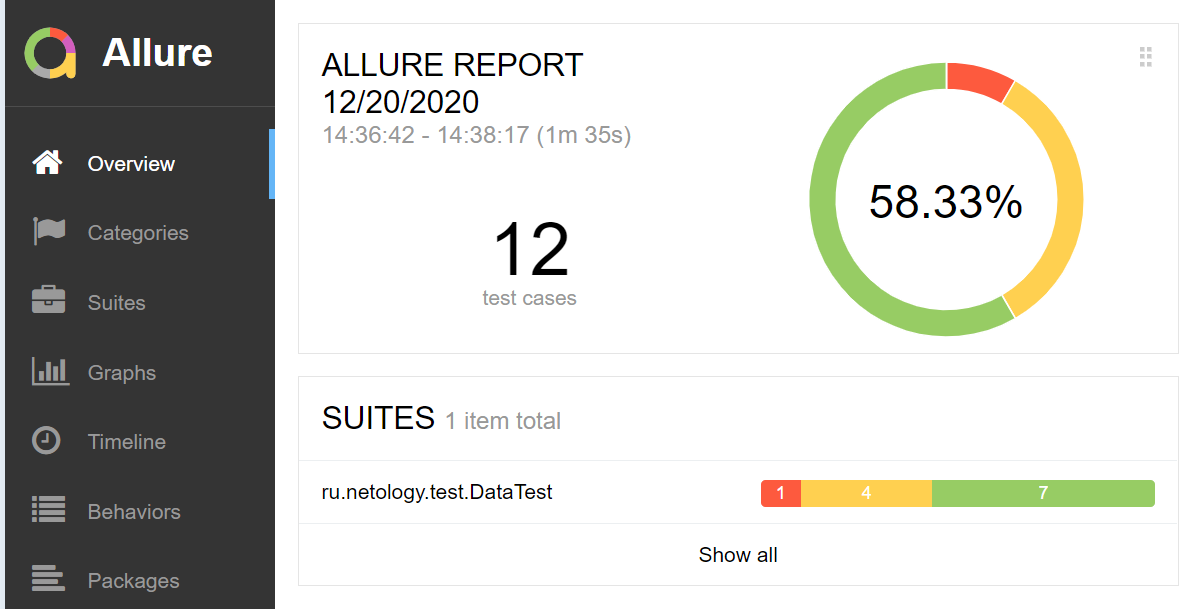
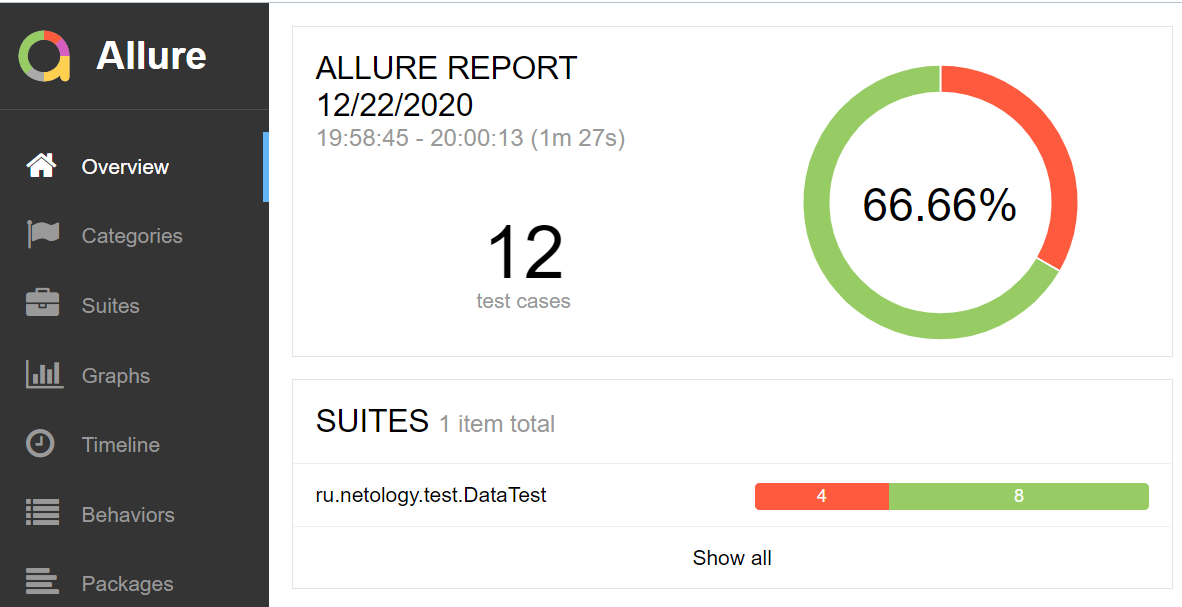
Report.md modified

diff --git a/documentation/Report.md b/documentation/Report.md
@@ -21,7 +21,7 @@
 
 По всем багам заведены [Issues](https://github.com/podnebessssni/Diplom/issues)
 
-Итого процент успешных автоматизированных показателей составил 58,33%
+Итого процент успешных автоматизированных показателей составил 66,66%
 
 ![тесты](https://github.com/podnebessssni/Diplom/blob/master/documentation/Screenshot/report.png)
 
